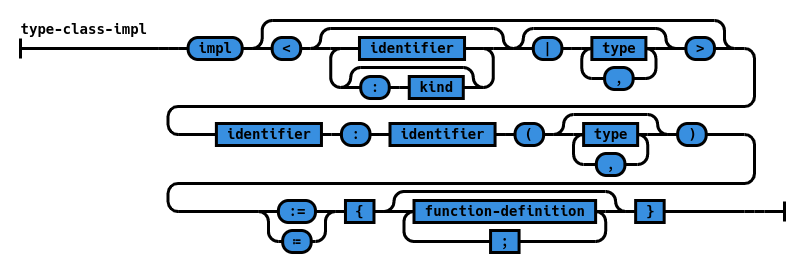
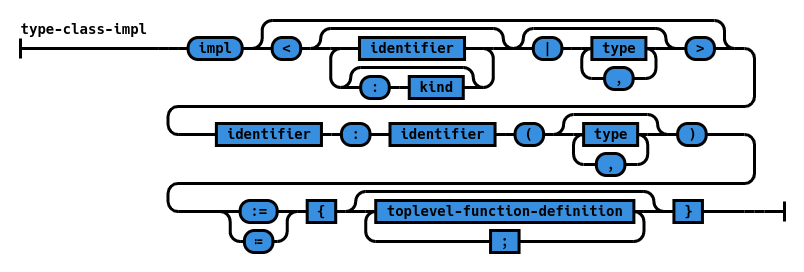
fix the grammar for typeclass implementations

Changed region(s): [[0.2799, 0.6765, 0.9017, 0.9412]]

diff --git a/part1-zilch.tex b/part1-zilch.tex
@@ -561,7 +561,7 @@ Assuming the following enumeration type for a list:
 
 \noindent\begin{minted}{\zilchlexer}
   impl map-list : Mappeable(List) :=
-    def map(f, l) := case l of
+    let map(f, l) := case l of
       Nil()      -> Nil()
       Cons(x, l) -> Cons(f x, map(f, l))
 \end{minted}
@@ -570,7 +570,7 @@ Assuming the following enumeration type for a list:
 Note that, as for type classes being equivalent to records, defining an implementation \textit{might} be equivalent to defining a new record\footnote{It is equivalent only when no wildcard is present in the head of the implementation.}:
 
 \noindent\begin{minted}{\zilchlexer}
-  def map-list : Mappeable(List) :=
+  let map-list : Mappeable(List) :=
     { map := (f, l) -> case l of
         Nil()      -> Nil()
         Cons(x, l) -> Cons(f x, map-list.map(f, l))

diff --git a/railroad-diagrams.py b/railroad-diagrams.py
@@ -1363,7 +1363,7 @@ def zilch_impl():
 			),
 			NonTerminal('{'),
 			ZeroOrMore(
-				NonTerminal('function-definition'),
+				NonTerminal('toplevel-function-definition'),
 				NonTerminal(';')
 			),
 			NonTerminal('}')
@@ -1679,4 +1679,4 @@ def zilch_letin():
 
 	return mk_diagram2('let-in', inner)
 
-zilch_typeclass().writeSvg(sys.stdout.write)
+zilch_impl().writeSvg(sys.stdout.write)
